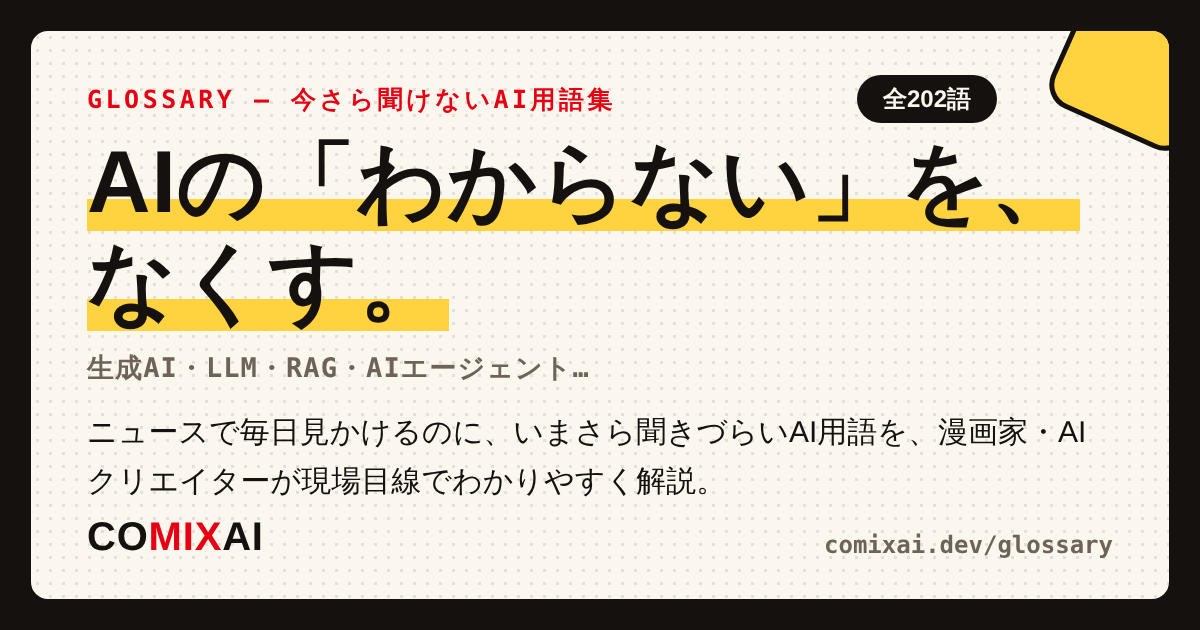
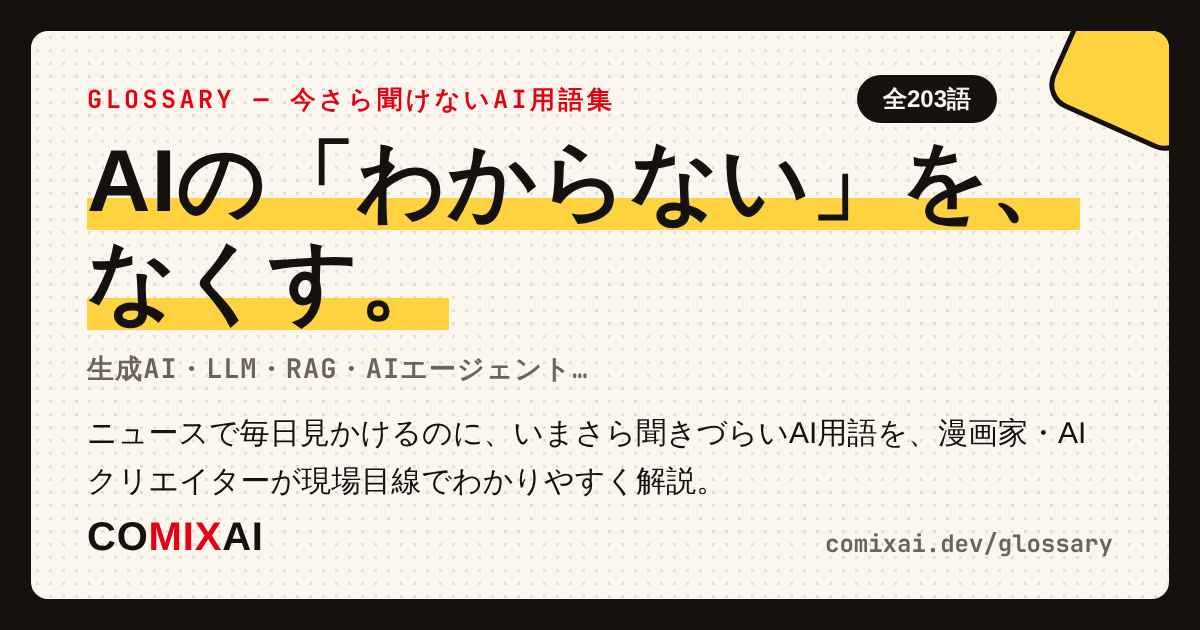
feat: 用語集にGemini 4 Hydrogenを追加、Geminiに追記
- gemini-4-hydrogen: 3.8 Flashの後継。無料でも自動選択経由で回ってくる点を中心に
- gemini: 無料で選べるのはFlash-Liteだけのまま、Autoで新モデルが当たる件を追記
- 図解を1点追加（Argon/Carbonとの向きの違いと提供範囲）

Claude-Session: https://claude.ai/code/session_013s3PaBcBV9Nh4iibjfCyyR

diff --git a/src/app/glossary/terms-wave4.ts b/src/app/glossary/terms-wave4.ts
@@ -1,5 +1,5 @@
 /* ============================================================
-   用語集 第4波：2026年9〜11月の話題語（+46語）
+   用語集 第4波：2026年9〜11月の話題語（+47語）
    ニュース見出しへの登場が増えているのに未収載だった語。
    AIバブル・Kimi・ヒューマノイドロボット・Claude Cowork・
    Pacing the Frontier（AI開発ペース調整）・ChatGPT Sketch・
@@ -8,7 +8,7 @@
    Googlebook・破滅ループ・自律型サイバー攻撃・Muse（Metaのエージェント）・
    宇宙データセンター・AIアバター・SI（AIの呼称変更）・話者分離・
    サンドボックス・dots（OpenAIの常駐エージェント）・電子透かし・超解像・
-   輸出規制・最高AI責任者（CAIO）・生成UI・バグバウンティ・報酬ハッキング・AI半導体・Gemini 4 Argon・国産LLM・自己複製AI・Deep Review・常時録音AI・スクレイピング・人間証明・php2shell・源内（ガバメントAI）・Claude Duet・サプライチェーン攻撃・Gemini 4 Carbon・Mistral AI・モデルルーティング・再帰的自己改善（RSI）・証明可能な推論・GPT-6 Cyber・CodeMender。
+   輸出規制・最高AI責任者（CAIO）・生成UI・バグバウンティ・報酬ハッキング・AI半導体・Gemini 4 Argon・国産LLM・自己複製AI・Deep Review・常時録音AI・スクレイピング・人間証明・php2shell・源内（ガバメントAI）・Claude Duet・サプライチェーン攻撃・Gemini 4 Carbon・Mistral AI・モデルルーティング・再帰的自己改善（RSI）・証明可能な推論・GPT-6 Cyber・CodeMender・Gemini 4 Hydrogen。
    方針は第3波と同じ：ベンダーを持ち上げず、事実ベースで、
    不確かな点は「2026年◯月時点」とぼかして書く。
    ============================================================ */
@@ -3040,5 +3040,73 @@ export const TERMS_WAVE4: GlossaryTerm[] = [
       },
     ],
     lastUpdated: "2026-11-08",
+  },
+  {
+    slug: "gemini-4-hydrogen",
+    term: "Gemini 4 Hydrogen",
+    yomi: "じぇみにふぉーはいどろじぇん",
+    en: "Gemini 4 Hydrogen",
+    seoHead: "Gemini 4 Hydrogenとは？無料でも回ってくる「作業用」のGemini",
+    extraKeywords: ["Gemini 4 Hydrogen とは", "Gemini 4 Hydrogen 無料", "Gemini 4 Hydrogen 料金", "Gemini 4 Hydrogen Carbon 違い", "Gemini 3.8 Flash 後継"],
+    category: "開発・活用",
+    short:
+      "Googleが2026年11月12日に発表した、速さと安さを重視したモデル。前世代「Gemini 3.8 Flash」の後継で、無料の利用者にもGeminiアプリの自動選択を通して回ってくる。",
+    body: [
+      "Gemini 4 Hydrogen（ハイドロジェン）は、Googleが2026年11月12日（米国時間）に発表したモデルです。位置づけは前世代の「Gemini 3.8 Flash」の後継。これまでGoogleは「Pro（高性能）」「Flash（高速）」のように役割で名前を分けていましたが、Gemini 4の世代からは階層名をやめ、ArgonやCarbonのようなコードネームに切り替えています。Hydrogenはその中で、毎日の作業を速く安く回す側の担当です。Googleの説明では、3.8 Flashと比べてタスクを終えるまでが約2.5倍速くなったとしています。",
+      "なぜ今これが話題かというと、直前に出たモデルとの向きがちょうど逆だからです。Gemini 4 Argon（9月30日）とGemini 4 Carbon（10月28日）は、長時間かかる開発やサイバー防御のための最上位モデルで、個人向けの入り口では最上位の有料プランに限られました。Hydrogenはその反対で、安く速く、しかも無料の利用者にも届きます。総合指標の数字でも、思考を深くした設定ではArgonを上回ったとされています。「上を伸ばす」話と「下に広げる」話が、2か月の間に並んで起きた——そう読むと、この発表の位置が分かりやすくなります。",
+    ],
+    sections: [
+      {
+        heading: "無料でも使えますが、名前で選べるわけではありません",
+        body: [
+          "いちばん知りたいところから書きます。Geminiアプリでは、無料の利用者もHydrogenを使えます。ただし、モデル選択のメニューから名指しで選ぶことはできません。入力した内容に応じてGoogleが自動で割り当てる「Auto」の設定を通して、適したと判断されたときに回ってくる形です。名指しで指定できるのは有料プランの側になります。",
+          "この違いは、使い勝手にそのまま出ます。無料で軽い調べものをする分には、黙って速いモデルが当たるので得になります。一方で、「毎回このモデルで動かす」という前提の手順を作ることはできません。同じ質問でも、タイミングによって別のモデルに回ることがあるためです。自動の振り分けそのものについては「モデルルーティング」の項に書いたので、仕組みから知りたい方はそちらをご覧ください。",
+          "提供範囲は、Googleの案内ではデスクトップ・モバイル・ウェブを含めて順次全世界へ、Google検索ではすべての利用者が対象とされています。日本向けの個別の発表は2026年11月時点で見当たらないため、自分のアプリで表示を確かめるのが確実です。開発者はGemini APIとGoogle AI Studioから、企業はGemini for businessから利用できます。有料のGoogle AI ProとUltraの契約者は、開発環境のAntigravityでも使えると案内されています。",
+        ],
+      },
+      {
+        heading: "上位モデルと組ませる使い方が示されました",
+        body: [
+          "もうひとつ目を引いたのが、HydrogenをCarbonと組ませる使い方です。計画を立てるところはCarbon、コードを編集してテストを走らせるところはHydrogen——と役割を分ける構成で、Googleの計測では、Carbonだけに任せたときに近い成功率を保ちながら、利用枠の消費が平均で24%少なく、完了までが19%速かったとしています。",
+          "ここは「賢いモデルを1つ選ぶ」から「仕事を分けて配る」への移り方として読むのが素直です。賢いモデルは高く、遅い。だから考える場面だけに使い、手を動かす場面は安くて速いモデルに回す。同じ考え方は他社の道具にも入ってきていて、使う側がモデル名を選ばなくなる流れと一続きになっています。",
+          "ただし、分けたぶん「どのモデルがどこを担当したのか」は見えにくくなります。記録に残す作業や、同じ手順を繰り返したい作業では、自動の振り分けに任せきりにしないほうが扱いやすい——この原則は変わりません。",
+        ],
+      },
+      {
+        heading: "公表されている数字の読み方",
+        body: [
+          "Googleが示した数字のうち、報道で揃って挙がっているのは次のあたりです。コーディングの評価「Terminal-Bench 4.1」で18.2%から57%へ、根拠のない主張は5分の1以下に減った、思考の深さは4段階から選べて既定が「high」、いちばん深い「xhigh」まで上げられる。評価会社Artificial Analysisの総合指標では、既定のhighで51、xhighで54とされ、highの時点でArgon（50）を上回ったと伝えられています。",
+          "いずれも発表直後の数字で、第三者による独立した検証はこれからです。主要なベンチマークの運営側にはまだ測られていない、という指摘も出ています。モデルの順位は数週間で入れ替わるので、自分の仕事に近い作業で一度試して差が出るかを見るほうが、結論としては早いです。",
+          "料金は、API経由で入力100万トークンあたり1.5ドル、出力100万トークンあたり7.5ドルと案内されています。最上位のCarbonは導入価格が入力2ドル・出力10ドルで、2026年12月1日からは入力4ドル・出力20ドルに上がる案内です。日常の作業をHydrogenに寄せる意味は、価格の側からも大きいことになります。料金も提供条件も動くものなので、実際に使うときは公式の価格表で確かめてください。",
+        ],
+      },
+    ],
+    links: [
+      { label: "Geminiで爆速TASK分解＆WBS/ガントチャート作成！", href: "https://note.com/aiux_unite/n/n5388622edaea" },
+      { label: "連載「AI時代の流行と本質」シリーズ紹介", href: "/manga/honshitsu" },
+      { label: "体験ゲーム：AIの脳みそ、仕分けます（速いAIとじっくり考えるAIの使い分け）", href: "/nou" },
+      { label: "用語：Gemini 4 Carbon（組ませる相手になる最上位モデル）", href: "/glossary/gemini-4-carbon" },
+      { label: "用語：モデルルーティング（自動で振り分ける仕組み）", href: "/glossary/model-routing" },
+    ],
+    relatedSlugs: ["gemini", "gemini-4-carbon", "gemini-4-argon", "model-routing", "frontier-model", "reasoning-model"],
+    faq: [
+      {
+        q: "Gemini 4 Hydrogenとは何ですか？",
+        a: "Googleが2026年11月12日に発表した、速さと安さを重視したモデルです。前世代「Gemini 3.8 Flash」の後継で、Googleの説明ではタスクを終えるまでが約2.5倍速くなったとしています。毎日の作業やコーディング、エージェントの作業を回す担当という位置づけです。",
+      },
+      {
+        q: "無料で使えますか？",
+        a: "Geminiアプリでは無料の利用者も使えますが、モデル選択のメニューから名指しで選ぶことはできません。入力内容に応じてGoogleが自動で割り当てる「Auto」を通して回ってくる形です。名指しで指定できるのは有料プランの側です。Google検索ではすべての利用者が対象とされています。",
+      },
+      {
+        q: "Gemini 4 CarbonやArgonとどう使い分けますか？",
+        a: "CarbonとArgonは長時間かかる開発や調査、サイバー防御のための最上位モデルで、個人向けの入り口では最上位の有料プランが前提です。Hydrogenは安くて速く、毎日の作業向けです。Googleは両方を組ませる構成も示していて、計画をCarbon、編集とテストをHydrogenに分けると、利用枠の消費が平均24%少なく、19%速く終わったとしています。",
+      },
+      {
+        q: "公表されているスコアはそのまま信じていいですか？",
+        a: "発表直後の数字で、第三者による独立した検証はこれからです。主要なベンチマークの運営側にはまだ測られていないという指摘も出ています。自分の仕事に近い作業で一度試し、料金と呼び出せる場所まで含めて選ぶほうが確実です。",
+      },
+    ],
+    lastUpdated: "2026-11-14",
   },
 ];

diff --git a/src/app/glossary/data.ts b/src/app/glossary/data.ts
@@ -55,7 +55,7 @@ export interface GlossaryTerm {
   secret?: { href: string; title: string; desc: string; cta?: string };
 }
 
-export const GLOSSARY_UPDATED = "2026-11-13";
+export const GLOSSARY_UPDATED = "2026-11-14";
 
 /* トップページのチップと一覧の「まずはこの12語」に出す代表用語 */
 export const FEATURED_SLUGS = [
@@ -1266,18 +1266,28 @@ const TERMS_BATCH2: GlossaryTerm[] = [
           "読み替えとしては、「無料でどこまでできるか」が各社とも絞られてきている流れの一例です。無料で試して合うかどうかを確かめ、効く用途が見つかったらその分だけ払う——この順番は変わりません。ただし無料枠の中身は変わるものだという前提で、特定のモデルに手順を固めすぎないほうが安全です。",
         ],
       },
+      {
+        heading: "無料でも新しいモデルが回ってくるようになりました（追記）",
+        body: [
+          "2026年11月12日（米国時間）、Googleが「Gemini 4 Hydrogen」を発表しました。上の節で「無料アカウントで選べるモデルはいちばん軽いFlash-Liteだけ」と書きましたが、この新しいモデルは無料の利用者にも届きます。ただし、選べるようになったわけではありません。モデル選択のメニューには出てこず、入力した内容に応じてGoogleが自動で割り当てる「Auto」を通して、適したと判断されたときに回ってくる形です。名指しで指定できるのは有料プランの側です。",
+          "ですので、上の節の「選べるモデルはFlash-Liteだけ」はいまも変わっていません。変わったのは、選べないまま速いモデルに当たることがある、という点です。軽い調べものをする分には黙って得をする話ですが、「毎回このモデルで動かす」という前提の手順は作れません。同じ質問でも、タイミングによって別のモデルに回ることがあるためです。自動の振り分けそのものは「モデルルーティング」の項に書きました。",
+          "Google検索のAIモードについては、すべての利用者が対象とされています。日本向けの個別の発表は2026年11月時点で見当たらないので、自分のアプリの表示で確かめるのが確実です。モデルの中身と料金は専用の用語ページにまとめたので、詳しくはそちらをご覧ください。",
+        ],
+      },
     ],
     links: [
       { label: "賀正🎍「Gemini」×「NotebookLM」で出来るDX（業務フロー改善）", href: "https://note.com/aiux_unite/n/n24dc19c0ff2d" },
       { label: "企画(施策)の「承認フロー」を通すAI活用術", href: "https://note.com/aiux_unite/n/ndae7f58601fc" },
+      { label: "用語：Gemini 4 Hydrogen（無料にも回ってくる新しいモデル）", href: "/glossary/gemini-4-hydrogen" },
     ],
-    relatedSlugs: ["notebooklm", "chatgpt", "ai-workflow", "gemini-omni", "slm"],
+    relatedSlugs: ["notebooklm", "chatgpt", "ai-workflow", "gemini-omni", "slm", "gemini-4-hydrogen", "model-routing"],
     faq: [
       { q: "Geminiは無料で使えますか？", a: "無料で使えます。上位モデルや大容量の機能を使うには有料プランが必要です。" },
       { q: "Googleサービスとどう連携できますか？", a: "GmailやドキュメントなどWorkspaceに組み込まれており、メールの下書きや資料の要約をアプリ内で頼めます。検索との連動も強みです。" },
       { q: "2026年10月9日から無料で使えるモデルはどれですか？", a: "無料アカウントは「Flash-Lite」だけになります。それまで選べたFlashとProは対象外です。中位の有料プラン（AI Plus）はFlashが残り、Proが外れます。上位のAI Pro・AI Ultraは変更なしと案内されています。開発者向けのAPIと、職場で使う法人向けアカウントはこの変更の対象外です。" },
+      { q: "無料でも「Gemini 4 Hydrogen」が使えると聞きました。", a: "Geminiアプリでは無料の利用者にも回ってきます。ただしモデル選択のメニューから名指しで選ぶことはできず、内容に応じてGoogleが自動で割り当てる「Auto」を通して当たる形です。選べるモデルがFlash-Liteだけという点は変わっていません。Google検索のAIモードはすべての利用者が対象とされています。" },
     ],
-    lastUpdated: "2026-10-08",
+    lastUpdated: "2026-11-14",
   },
   {
     slug: "notebooklm",

diff --git a/src/app/glossary/diagrams.tsx b/src/app/glossary/diagrams.tsx
@@ -2073,6 +2073,21 @@ const DIAGRAMS: Record<string, { caption: string; render: () => React.ReactNode 
       </Svg>
     ),
   },
+  "gemini-4-hydrogen": {
+    caption: "上を伸ばす話と、下に広げる話",
+    render: () => (
+      <Svg h={330} title="Gemini 4 Hydrogenの位置づけと提供範囲の図解">
+        <T x={300} y={22} text="同じGemini 4の中で、向きが逆の2本が出た" size={13.5} color={INK} />
+        <B x={30} y={42} w={255} h={58} label="Argon／Carbon" sub="長い開発と防御。最上位プラン前提" />
+        <B x={315} y={42} w={255} h={58} label="Gemini 4 Hydrogen" sub="毎日の作業。速くて安い" fill={YELLOW} />
+        <AV x={442} y1={104} y2={132} />
+        <B x={30} y={136} w={540} h={56} label="無料の利用者にも回ってくる" sub="ただし自動選択（Auto）経由。名指しでは選べない" />
+        <AV x={300} y1={196} y2={224} />
+        <B x={30} y={228} w={540} h={52} label="組ませる使い方も示された" sub="計画はCarbon、編集とテストはHydrogen" dashed={true} />
+        <T x={300} y={306} text="便利になるぶん、どれが答えたのかは見えにくくなる" size={13} color={INK} />
+      </Svg>
+    ),
+  },
 };
 
 export function hasDiagram(slug: string): boolean {
